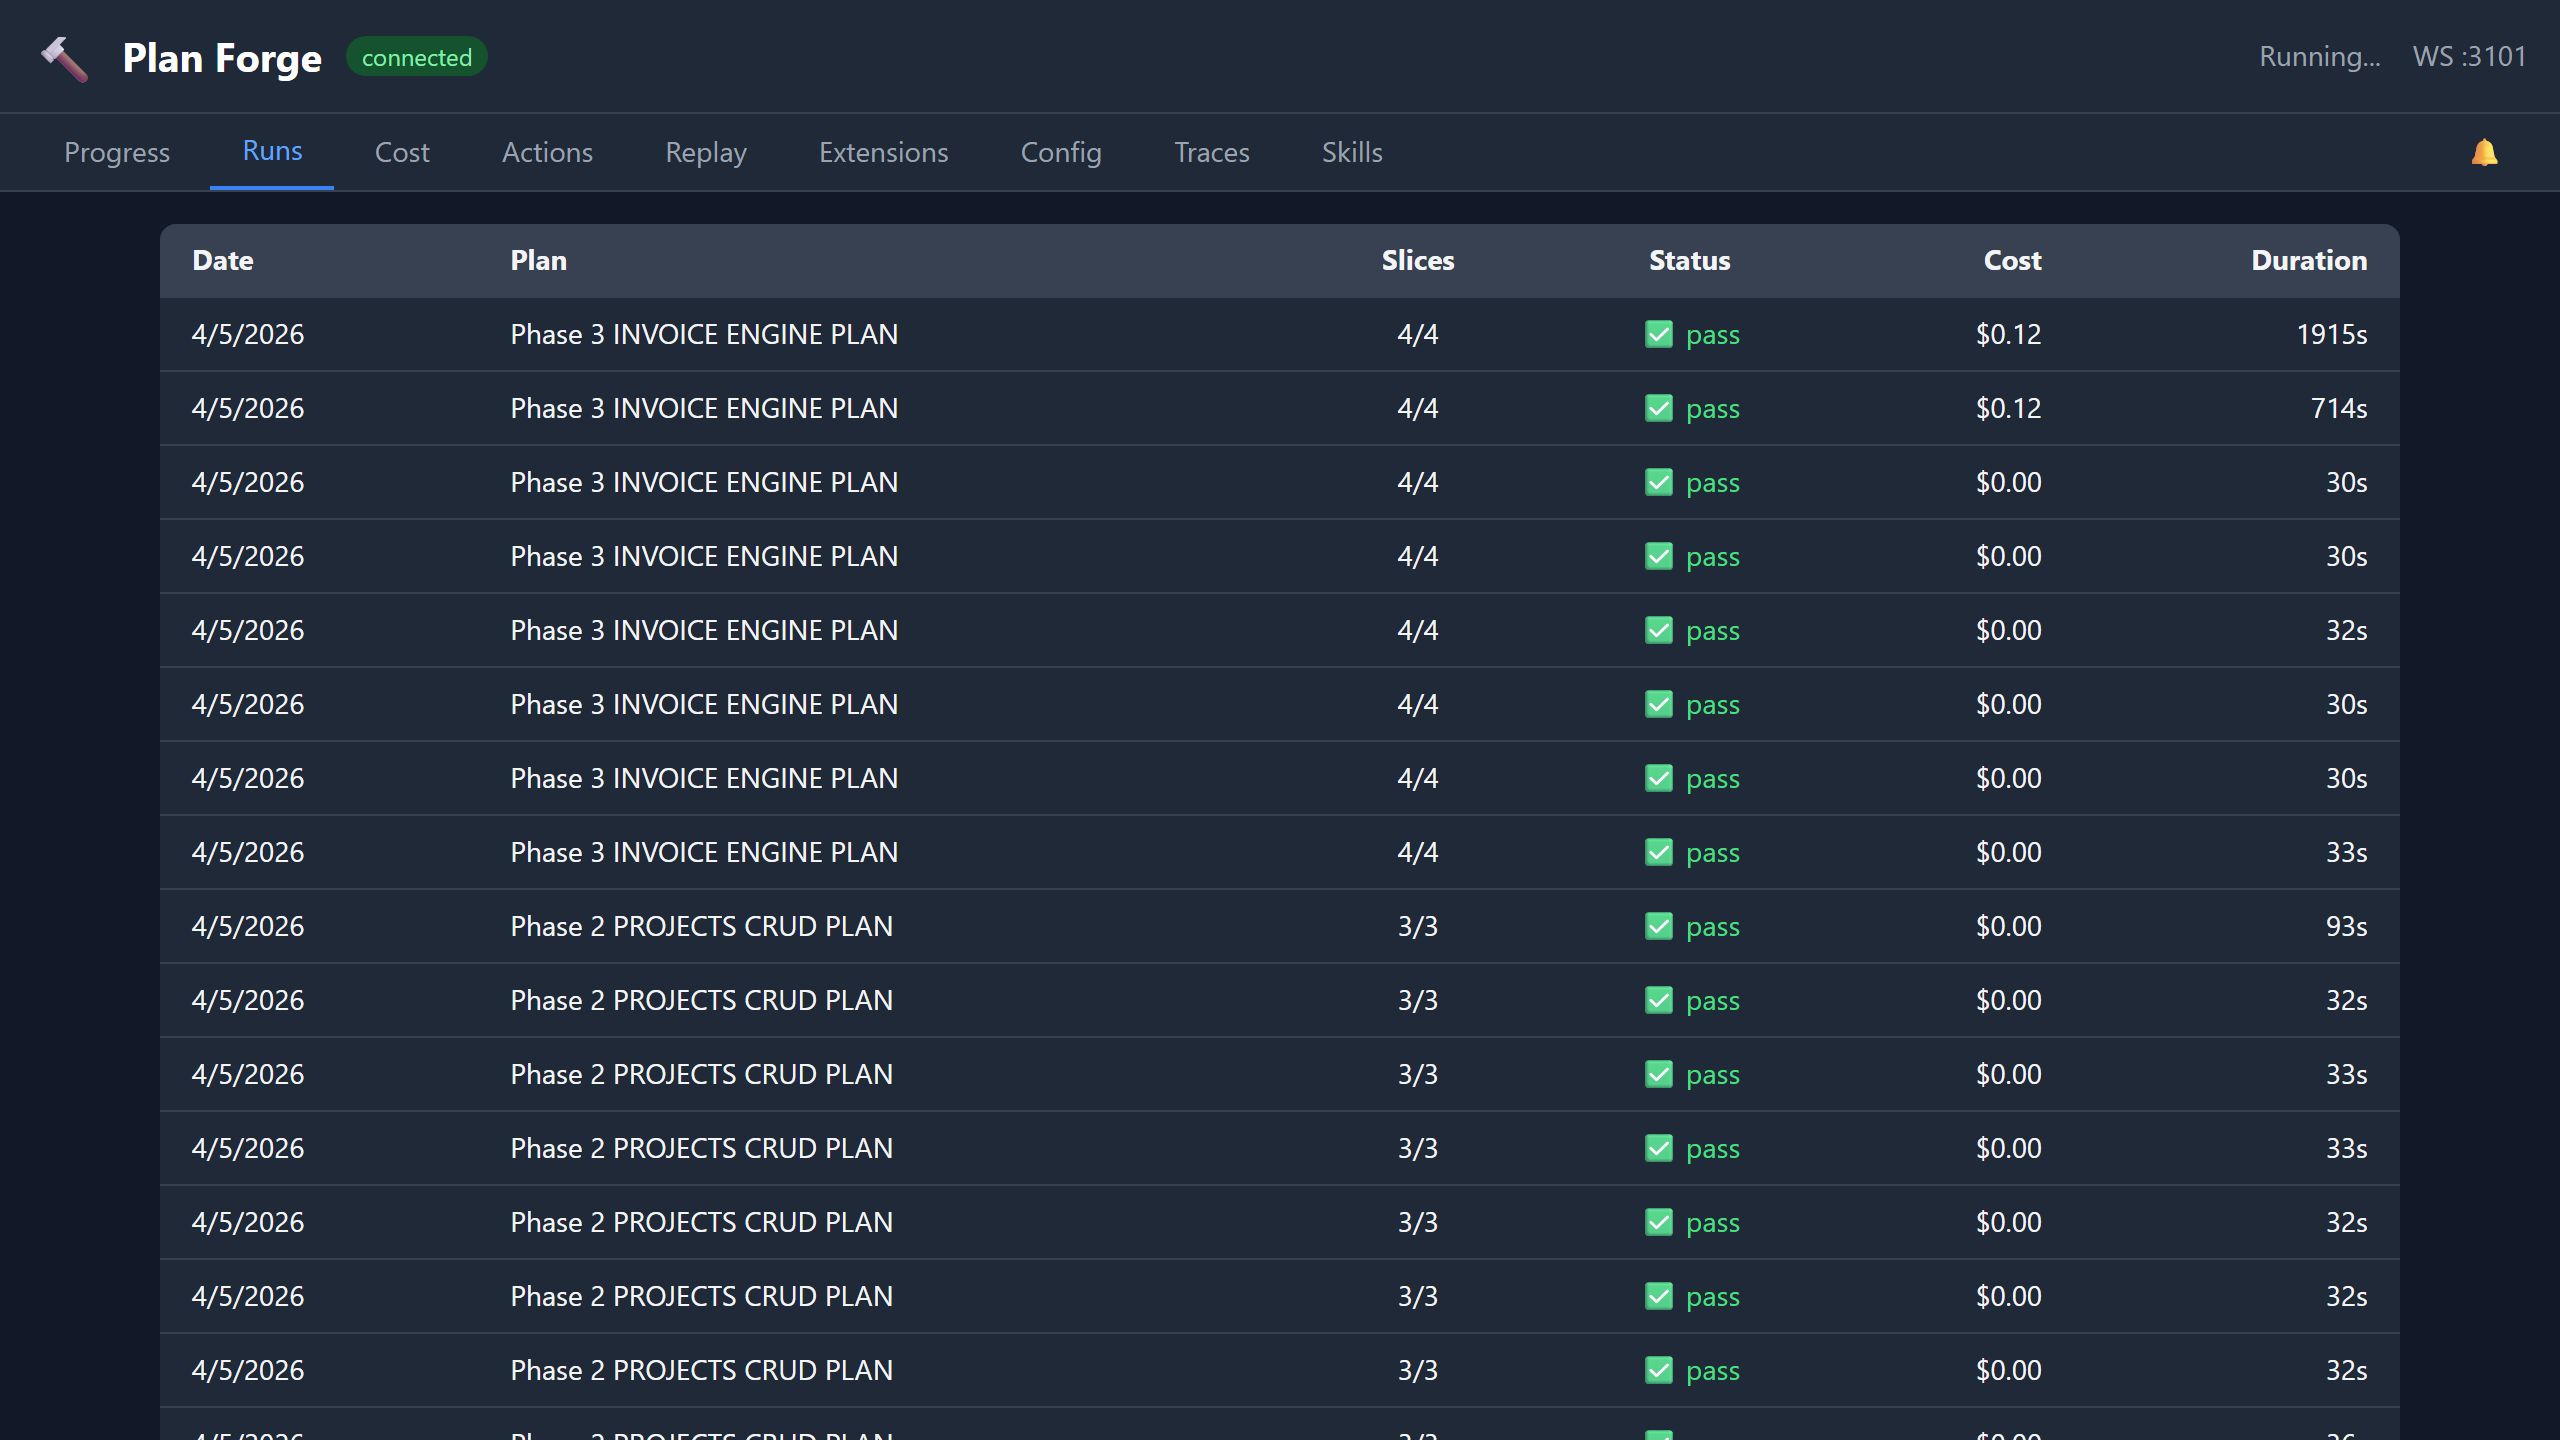
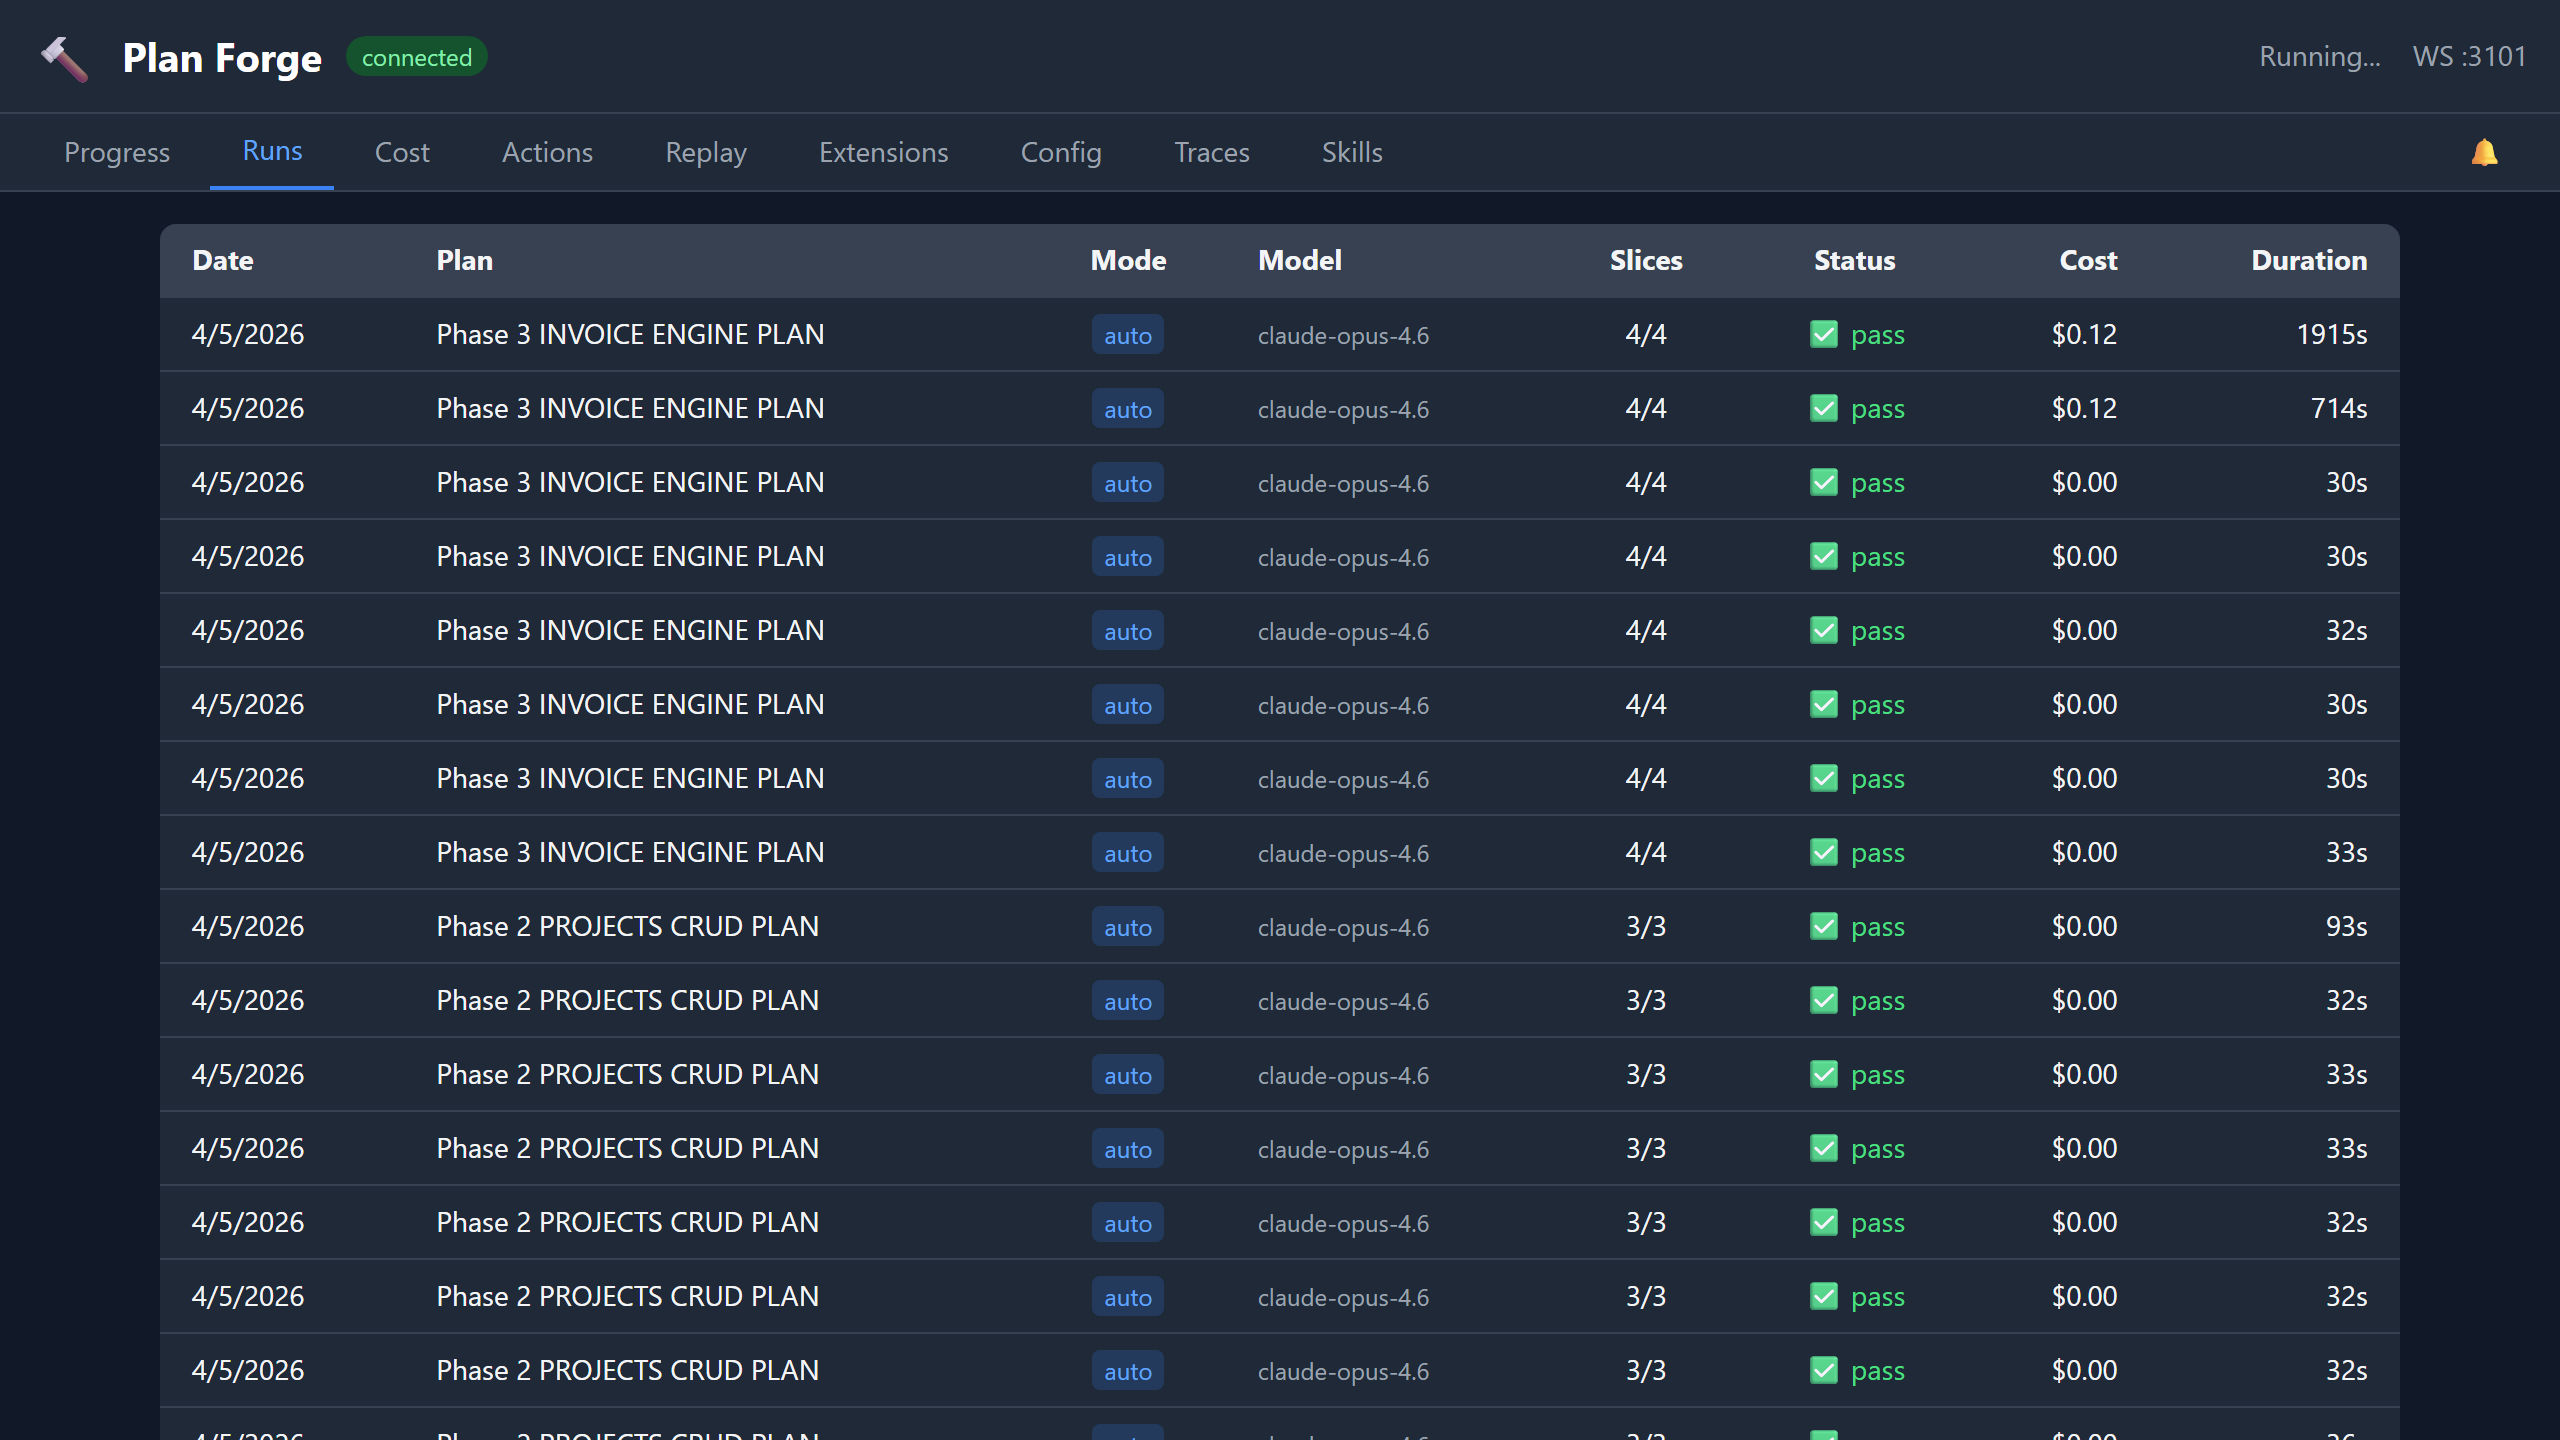
feat(dashboard): add Mode and Model columns to Runs tab

diff --git a/pforge-mcp/dashboard/app.js b/pforge-mcp/dashboard/app.js
@@ -253,12 +253,16 @@ async function loadRuns() {
     const runs = await res.json();
     const tbody = document.getElementById("runs-table-body");
     if (!runs.length) {
-      tbody.innerHTML = '<tr><td colspan="6" class="px-4 py-8 text-center text-gray-500">No runs yet</td></tr>';
+      tbody.innerHTML = '<tr><td colspan="8" class="px-4 py-8 text-center text-gray-500">No runs yet</td></tr>';
       return;
     }
     tbody.innerHTML = runs.map((r) => {
       const date = r.startTime ? new Date(r.startTime).toLocaleDateString() : "—";
       const plan = shortName(r.plan);
+      const modeColors = { auto: "blue", assisted: "amber", estimate: "gray" };
+      const modeColor = modeColors[r.mode] || "gray";
+      const mode = r.mode ? `<span class="px-1.5 py-0.5 text-xs rounded bg-${modeColor}-500/20 text-${modeColor}-400">${r.mode}</span>` : "—";
+      const model = r.model ? `<span class="text-xs text-gray-400">${r.model}</span>` : "—";
       const slices = `${r.results?.passed || 0}/${r.sliceCount || 0}`;
       const status = r.status === "completed"
         ? '<span class="text-green-400">✅ pass</span>'
@@ -268,6 +272,8 @@ async function loadRuns() {
       return `<tr class="border-t border-gray-700 hover:bg-gray-700/50">
         <td class="px-4 py-2">${date}</td>
         <td class="px-4 py-2">${plan}</td>
+        <td class="px-4 py-2 text-center">${mode}</td>
+        <td class="px-4 py-2">${model}</td>
         <td class="px-4 py-2 text-center">${slices}</td>
         <td class="px-4 py-2 text-center">${status}</td>
         <td class="px-4 py-2 text-right">${cost}</td>
@@ -276,7 +282,7 @@ async function loadRuns() {
     }).join("");
   } catch (err) {
     document.getElementById("runs-table-body").innerHTML =
-      `<tr><td colspan="6" class="px-4 py-8 text-center text-red-400">Error: ${err.message}</td></tr>`;
+      `<tr><td colspan="8" class="px-4 py-8 text-center text-red-400">Error: ${err.message}</td></tr>`;
   }
 }
 

diff --git a/pforge-mcp/dashboard/index.html b/pforge-mcp/dashboard/index.html
@@ -98,6 +98,8 @@
             <tr>
               <th class="px-4 py-2 text-left">Date</th>
               <th class="px-4 py-2 text-left">Plan</th>
+              <th class="px-4 py-2 text-center">Mode</th>
+              <th class="px-4 py-2 text-left">Model</th>
               <th class="px-4 py-2 text-center">Slices</th>
               <th class="px-4 py-2 text-center">Status</th>
               <th class="px-4 py-2 text-right">Cost</th>
@@ -105,7 +107,7 @@
             </tr>
           </thead>
           <tbody id="runs-table-body">
-            <tr><td colspan="6" class="px-4 py-8 text-center text-gray-500">Loading...</td></tr>
+            <tr><td colspan="8" class="px-4 py-8 text-center text-gray-500">Loading...</td></tr>
           </tbody>
         </table>
       </div>
